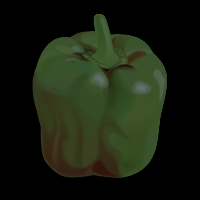
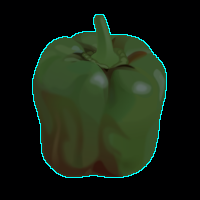
implemented minor, major axis

diff --git a/include/image_region.hpp b/include/image_region.hpp
@@ -87,21 +87,25 @@ namespace crisp
             /// @returns vector of angles in radian
             std::vector<float> slope_chain_code_signature() const;
 
+            /// @brief get covariance matrix of position
+            /// @returns covariance matrix of the position of each element
+            const Eigen::Matrix<float, Eigen::Dynamic, Eigen::Dynamic>& get_covariance_matrix() const;
+
             /// @brief get the major axis, the longer axis along the eigenvalues of the ellipses fitting the region
             /// @return pair of points that model the line
-            const std::pair<Vector2ui, Vector2ui>& get_major_axis();
+            const std::pair<Vector2ui, Vector2ui>& get_major_axis() const;
 
             /// @brief get the minor axis, the shorter axis along the eigenvalues of the ellipses fitting the region
             /// @return pair of points that model the line
-            const std::pair<Vector2ui, Vector2ui>& get_minor_axis();
+            const std::pair<Vector2ui, Vector2ui>& get_minor_axis() const;
 
             /// @brief get bounding box where each side is parallel to the corresponding minor/major axis
             /// @returns array of four points that model the box
-            std::array<Vector2ui, 4> get_bounding_box();
+            std::array<Vector2ui, 4> get_bounding_box() const;
 
             /// @brief get the axis aligned bounding box where each side is parallel to the x/y axis
             /// @returns array of four points that model the box
-            std::array<Vector2ui, 4> get_axis_aligned_bounding_box();
+            std::array<Vector2ui, 4> get_axis_aligned_bounding_box() const;
 
             /// @brief get length of the regions boundary
             /// @returns legnth
@@ -126,10 +130,6 @@ namespace crisp
             /// @brief get number of holes
             /// @returns number of holes
             size_t get_n_holes() const;
-
-            /// @brief get covariance matrix, quantized to 256x256
-            /// @returns matrix as 1d image
-            Image<float, 1> get_covariance_matrix() const;
 
             /// @brief get the nths moment invariant
             /// @param n: n in {1, 2, ..., 6, 7}
@@ -160,6 +160,9 @@ namespace crisp
             std::vector<Vector2ui> _boundary_polygon;
 
             Vector2f _centroid;
+
+            std::pair<Vector2f, Vector2f> _major_axis,
+                                          _minor_axis;
 
             Vector2ui _x_bounds,
                       _y_bounds;

diff --git a/docs/feature_extraction/feature_extraction_example.cpp b/docs/feature_extraction/feature_extraction_example.cpp
@@ -20,9 +20,13 @@ int main()
     auto pepper_segment = segments.at(1);
     auto pepper = ImageRegion(pepper_segment, image);
 
+    auto covar = pepper.get_covariance_matrix();
+
+    return 0;
     for (auto& px : image)
         px *= 0.5;
 
+    /*
     size_t bad_n = 0;
     for (auto& px : pepper_segment)
     {
@@ -41,23 +45,35 @@ int main()
 
                 if (n_unconnected > 0)
                 {
-                    //image(px.x(), px.y()) = RGB{0, 1, 1};
+                    image(px.x(), px.y()) = RGB{0, 1, 1};
                     bad_n++;
                 }
             }
         }
     }
-
-    save_to_disk(image, "/home/clem/Workspace/crisp/docs/feature_extraction/pepper_boundary_bad.png");
+     */
 
     for (auto& px : pepper.get_boundary())
         image(px.x(), px.y()) = RGB{1, 0, 1};
 
-    for (auto& px : pepper.get_boundary_polygon())
-        image(px.x(), px.y()) = RGB{0, 1, 0};
+    auto rect = pepper.get_axis_aligned_bounding_box();
 
-    save_to_disk(image, "/home/clem/Workspace/crisp/docs/feature_extraction/pepper_polygon.png");
+    auto y = rect.at(0).y();
+    for (size_t x = rect.at(0).x(); x <= rect.at(1).x(); ++x)
+        image(x, y) = RGB{1, 1, 1};
 
-    std::cout << bad_n << " " << pepper.get_boundary().size() << " " << pepper.get_boundary_polygon().size() << std::endl;
+    auto x = rect.at(1).x();
+    for (size_t y = rect.at(1).y(); y <= rect.at(2).y(); ++y)
+        image(x, y) = RGB{1, 1, 1};
+
+    y = rect.at(2).y();
+    for (size_t x = rect.at(3).x(); x <= rect.at(2).x(); ++x)
+        image(x, y) = RGB{1, 1, 1};
+
+    x = rect.at(0).x();
+    for (size_t y = rect.at(0).y(); y <= rect.at(3).y(); ++y)
+        image(x, y) = RGB{1, 1, 1};
+
+    save_to_disk(image, "/home/clem/Workspace/crisp/docs/feature_extraction/pepper_aabb.png");
 }
 

diff --git a/docs/feature_extraction/feature_extraction.md b/docs/feature_extraction/feature_extraction.md
@@ -164,5 +164,73 @@ Using this approach we reduce the number of boundary points from 472 to only 193
 
 Now that we reduced the entire information contained in the region in the shape of a pepper to just 193 pixels some may think we are done but thanks to more math we can reduce it even further and/or increase it's generality.
 
-## 
+## 3. Boundary Signatures
+
+A signature is a mathematical transform of the boundary points of a shape that aims to, in some way, make the description of the boundary more widely applicable. One of these ways is to make it *independent of rotation*, a signature that accomplishes this describes not only our upright pepper but all possible rotation of it at the same time. Another form of generality is *scale invariance*, meaning that the signature describes our pepper at scale 1 and the same pepper scaled by any factor > 0. Lastly *independence of translation* means that it does not matter if we were to translate all points of the signature by a constant (x, y), the signature represents all of those peppers just the same. ``crisp`` offers the following signatures:
+
+## 3.1 Vertex Polygon
+
+This is the simplest signature, as already mentioned it reduces the boundary to the vertices of it's polygon. It is neither scale nor rotationally invariant, it can however be computed in amortized o(1) using:
+
+```cpp
+auto polygon_signature = pepper.get_boundary_polygon();
+```
+
+## 3.2 Slope Chain Code Signature
+
+We can generate the slope-chain-signature by simply iterating through all boundary polygon vertices and storing the *angle* of the line that connects our current polygon vertex to the next (recall that the vertices are ordered counter-clockwise). We can then transform this signature to be rotationally and translation invariant by computing the difference of angle from one vertex to the next, this way we can start at point and complete the full chain to create the shape by just drawing a line at that angle
+
+We can generate the slop-chain-code-signature using ``std::vector<float> ImageRegion::slope_chain_code_signature() const``, it returns the angles in radian in order of boundary polygon vertices. Computing the difference from this is a trivial operation.
+
+## 3.3 Radial Distance Signature
+
+The radial distance signature is the distance of each vertex from the regions centroid. The centroid of a region in ``crisp`` is defined as the mean of all boundary coordinates and can be intuitively thought of as the center of mass of a region if all pixels have the same weight. This signature is translation and rotationally invariant. We can generate it using ``std::vector<float> ImageRegin::radial_distance_signature() const`` in amortized o(m) (where m the number of boundary vertices).
+
+## 3.4 Complex Coordinate Signature
+
+(as proposed by [El-Ghazal, Basir, Belkasim (2007)](https://ieeexplore.ieee.org/abstract/document/4378916))
+
+This signature transforms each point in the boundary polygon into a complex number, for a point (x, y) the signature of the point is the complex number x + i*y where i is the imaginare constant, so the x-coordinate is treated as the real part and the y-coordinate is treated as the y-part. While this signature is neither invariant to scale or rotation, we can now fourier-transform the complex number achieving scale, rotational and translational invariance.
+
+We can access the complex coordinates in O(m) (where m the number of boundary polygon points) using ``ImageRegion::complex_coordinate_signature()``. To then transform it into it's fourier descriptors we can use the fourier transform functions provided by ``crisp::FourierTransform``.
+
+## 3.5 Farthest Point Signature
+
+(as proposed again by [El-Ghazal, Basir, Belkasim (2009)](https://www.sciencedirect.com/science/article/abs/pii/S0923596509000393))
+
+This signature computes for each boundary the maximum distance to any other boundary point. This signature performs betters when used for fourier descriptors [1] and achieves translational and rotational invariance.
+We can generate it using ``ImageRegion::farther_point_signature``. 
+
+[1] (Y. Hu, Z. Li, (2013): [available here](http://www.jsoftware.us/vol8/jsw0811-31.pdf)
+
+## 4. Whole Region Descriptors
+
+## 4.1 Centroid
+
+As already mentioned a regions centroid in ``crisp`` is defined as the mean of it's boundary points, this differes slightly from the usual definition because crisp allows the regions boundary to be intersecting, and the regions to have holes.  
+
+![](./pepper_centroid.png)
+
+Where the centroid is highligted using a red rgb(1, 0, 0) cross.
+
+## 4.1 AABB
+
+The axis aligned bounding box of a region is the smallest rectangle whos sides align with the x- and y-axis that completely encloses the region. We can access it like so:
+
+```cpp
+std::vector<Vector2ui, 4> aabb_vertcies = pepper.get_axis_aligned_bounding_box(); 
+```
+
+Where the vertices are in the following order: top-left, top-right, bottom-right, bottom-left.
+
+The value of the vertices of the rectangle are relative to the top-left corner of the image the region is from, translating them to the origin is a trivial operation.
+
+![](./pepper_aabb.png)
+
+## 4.2 
+
+
+
+
+
 
